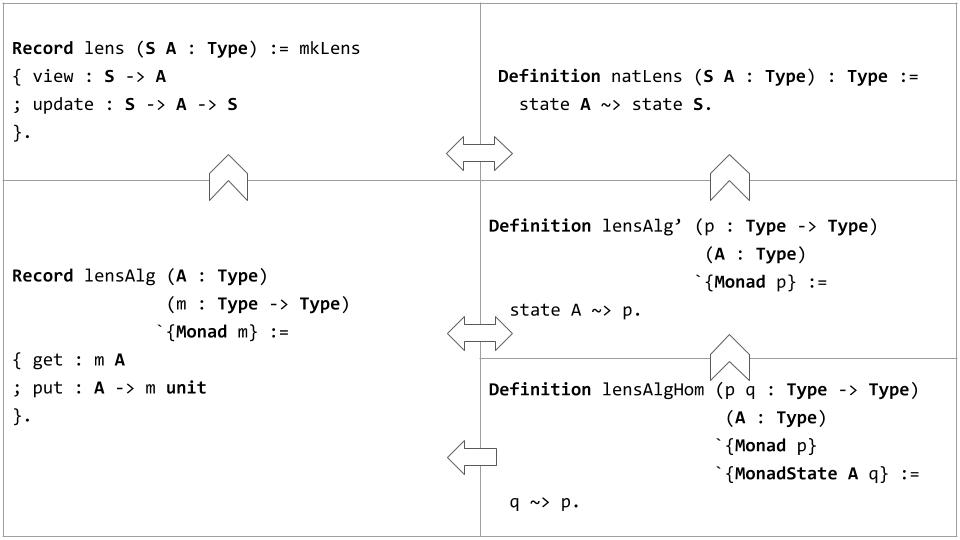
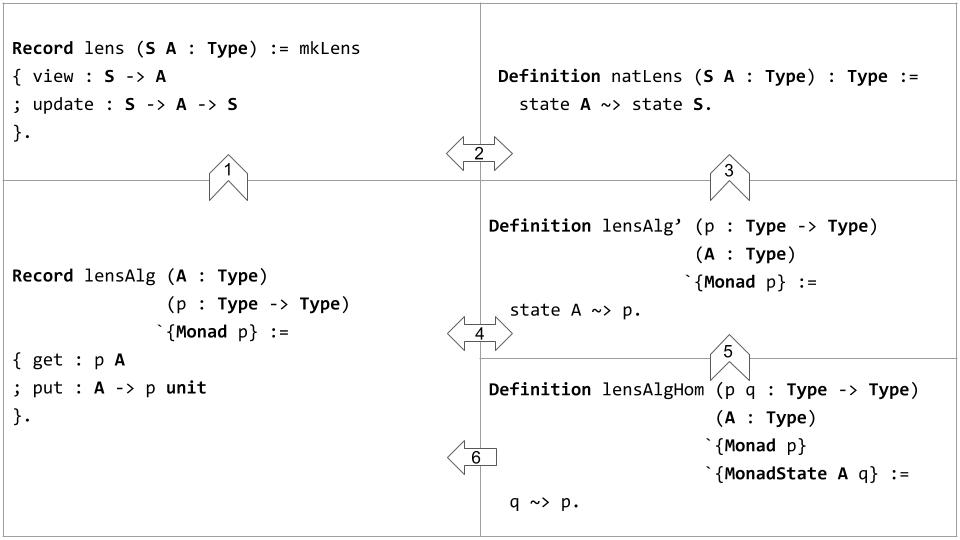
Adds numbering to table

diff --git a/README.md b/README.md
@@ -5,7 +5,7 @@ This repository contains Coq definitions and theorems revolving around very well
 ![alt text](figure.jpg)
 
 Broadly, we show that:
-* MonadState generalizes lens. Particularly, `MonadState A (state S)` is isomorphic to `lens S A`. Given this situation, we will refer to MonadState as *lens algebra* (`lensAlg`).
+1. MonadState generalizes lens. Particularly, `MonadState A (state S)` is isomorphic to `lens S A`. Given this situation, we will refer to MonadState as *lens algebra* (`lensAlg`).
 * A monad morphism `state A ~> state S` is isomorphic to `lens S A`.
 * We can abstract away `state S` from the aforementioned monad morphism, obtaining `lensAlg'` as a result. In other words, `natLens S A` is exactly `lensAlg' (state S) A`.
 * `lensAlg` is isomorphic to `lensAlg'`, and hence MonadState.
